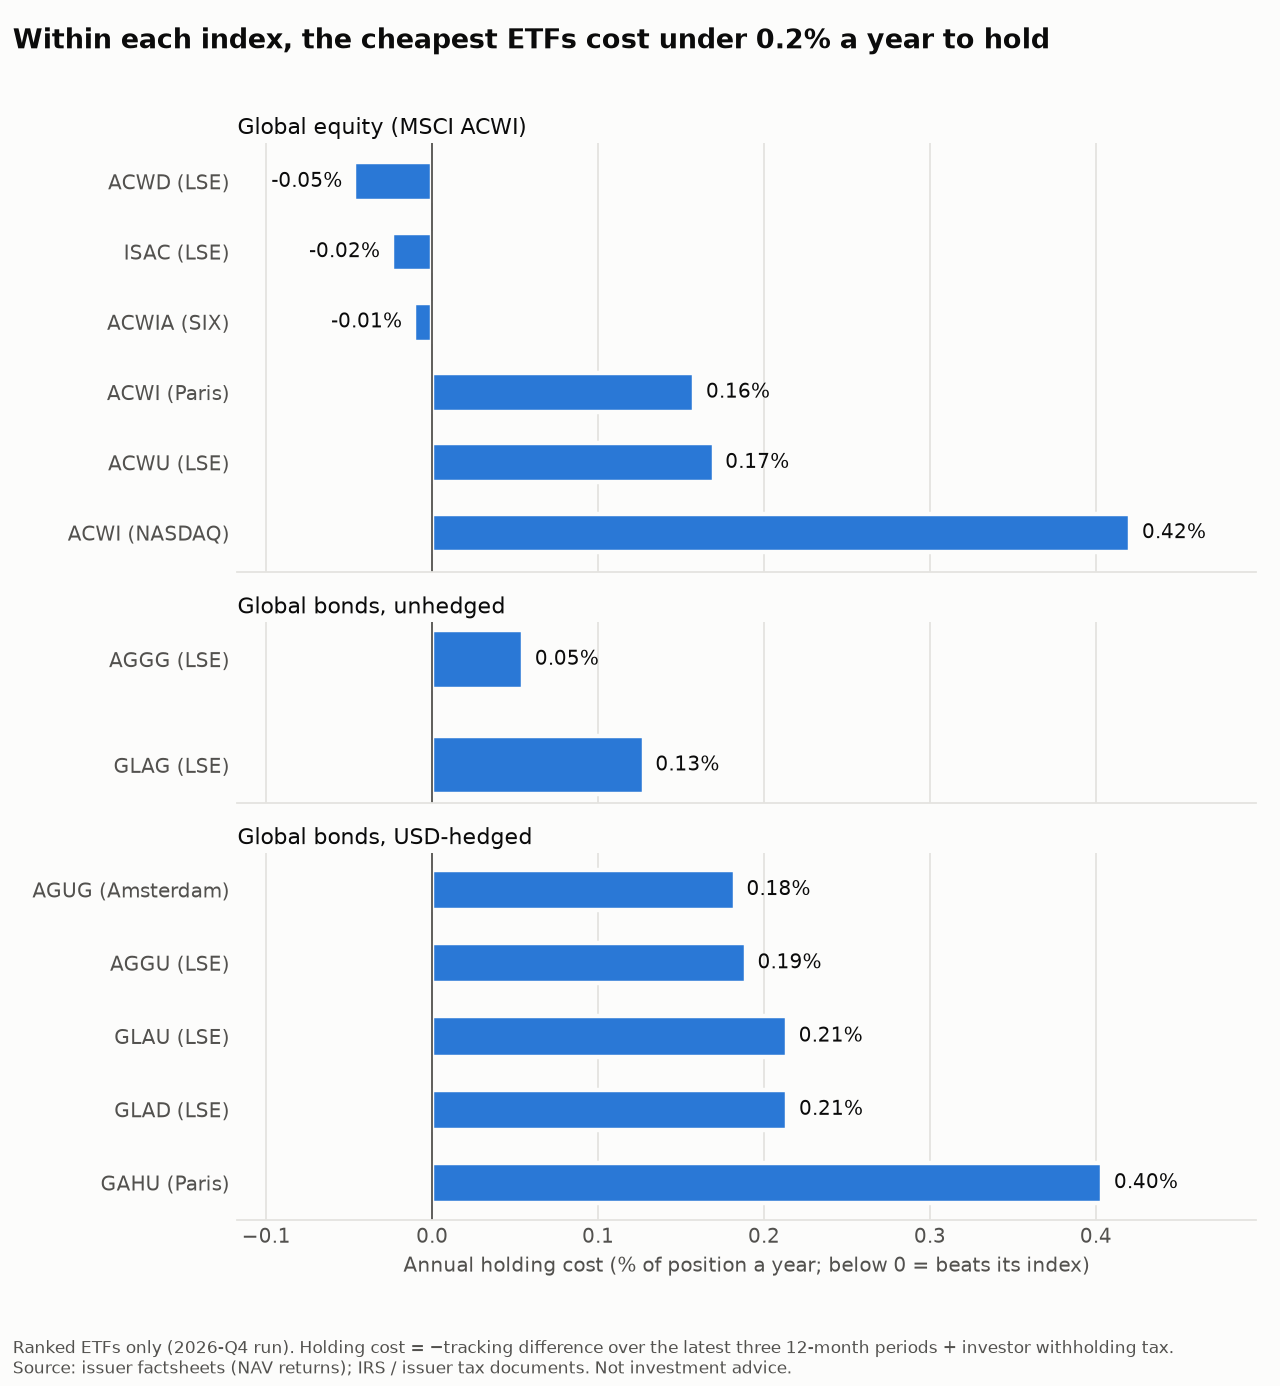
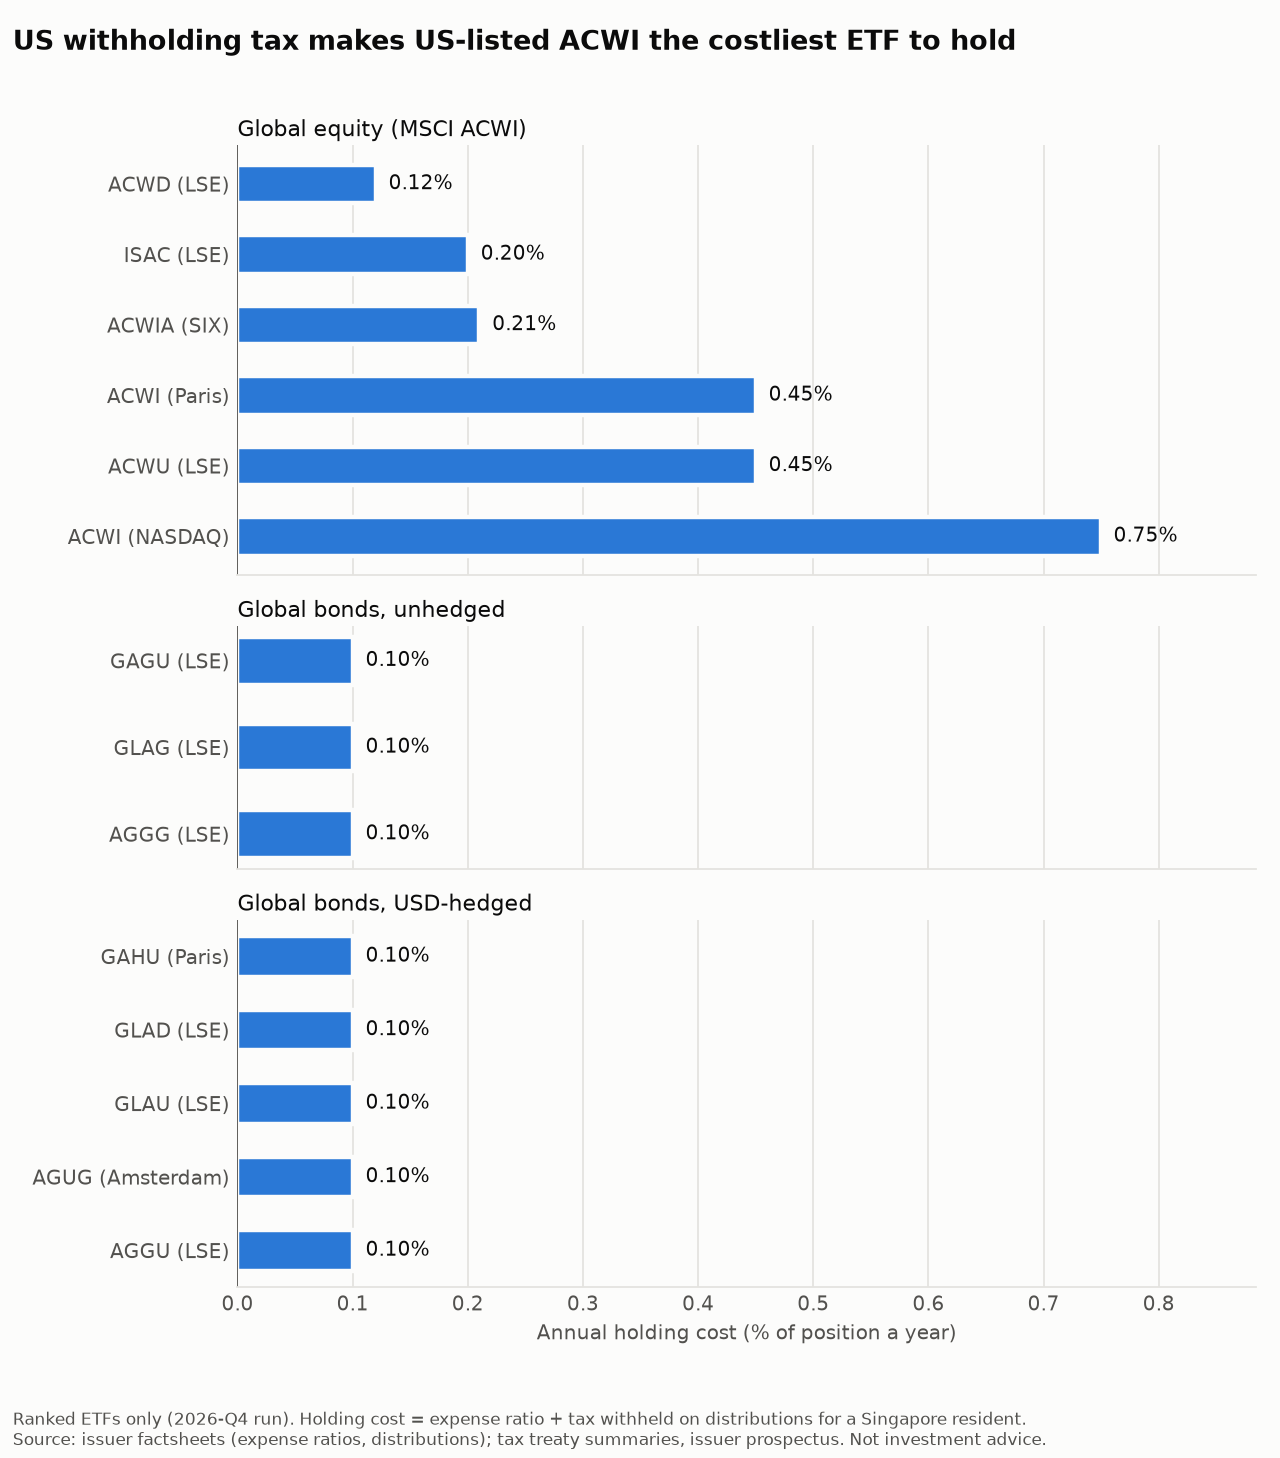
Base holding cost on expense ratio plus tax on distributions
The owner chose fixed, published costs over three years of noisy
tracking difference (R3 revised). Tracking difference is still
reported. Only verified share classes with three years of history can
be ranked or trigger a switch.

diff --git a/tests/test_ranking.py b/tests/test_ranking.py
@@ -49,45 +49,51 @@ def test_periods_after_as_of_are_ignored():
     assert t.set_index("isin").loc["A", "periods"] == 2
 
 
+ISINS = ["H", "C1", "C2", "N", "U"]
+
+
 def _table():
     candidates = pd.DataFrame(
         {
-            "isin": ["H", "C1", "C2", "N"],
-            "ticker": ["HHH", "CC1", "CC2", "NEW"],
-            "benchmark_variant": ["X"] * 4,
-            "distribution": ["acc", "dist", "acc", "acc"],
-            "domicile": ["IE", "US", "IE", "IE"],
+            "isin": ISINS,
+            "ticker": ["HHH", "CC1", "CC2", "NEW", "UNV"],
+            "benchmark_variant": ["X"] * 5,
+            "distribution": ["acc", "dist", "acc", "acc", "acc"],
+            "domicile": ["IE", "US", "IE", "IE", "IE"],
+            "expense_ratio": [0.0020, 0.0010, 0.0015, 0.0005, 0.0001],
+            "status": ["verified"] * 4 + ["to_verify"],
         }
     )
     td = pd.DataFrame(
         {
-            "isin": ["H", "C1", "C2", "N"],
-            "ticker": ["HHH", "CC1", "CC2", "NEW"],
-            "benchmark_variant": ["X"] * 4,
-            "complete": [True, True, True, True],
-            "tracking_difference": [-0.0020, 0.0010, -0.0015, 0.0050],
+            "isin": ISINS,
+            "ticker": ["HHH", "CC1", "CC2", "NEW", "UNV"],
+            "benchmark_variant": ["X"] * 5,
+            "tracking_difference": [-0.0020, 0.0010, -0.0015, 0.0050, 0.0],
         }
     )
     wht = pd.DataFrame({"fund_domicile": ["IE", "US"], "withholding_rate": [0.0, 0.30]})
-    short = pd.Series([False, False, False, True])
+    short = pd.Series([False, False, False, True, False])
     return ranking.cost_table(candidates, td, wht, {"C1": 0.02}, short)
 
 
 def test_cost_table_holding_cost_and_eligibility():
     t = _table().set_index("isin")
-    # US dist beating its index by 0.10%: cost = -0.0010 + 2% yield x 30% = 0.0050
-    assert t.loc["C1", "annual_holding_cost"] == pytest.approx(0.0050)
+    # US dist: 0.10% TER + 2% yield x 30% withholding = 0.70%; tracking difference not used
+    assert t.loc["C1", "annual_holding_cost"] == pytest.approx(0.0070)
     assert t.loc["C2", "annual_holding_cost"] == pytest.approx(0.0015)
     assert t.loc["C1", "us_situs"]
     # Short history can't be ranked or trigger a switch, even though it looks cheapest
     assert not t.loc["N", "eligible"]
     assert pd.isna(t.loc["N", "rank"])
+    # Nor can an unverified row, however cheap its expense ratio
+    assert not t.loc["U", "eligible"]
     assert t.loc["C2", "rank"] == 1
 
 
 def test_switch_decision_picks_cheapest_eligible_and_applies_breakeven():
     t = _table()
-    one_way = {"H": 0.0010, "C1": 0.0010, "C2": 0.0010, "N": 0.0010}
+    one_way = dict.fromkeys(ISINS, 0.0010)
     # H costs 0.20%/yr, C2 0.15%/yr -> saving 5 bps; switch cost 20 bps -> breakeven 4 years
     d = ranking.switch_decision("H", t, one_way, unrecovered=0.0, remaining_years=19.2)
     assert d.best_candidate == "CC2 (C2)"
@@ -99,6 +105,6 @@ def test_switch_decision_picks_cheapest_eligible_and_applies_breakeven():
 
 
 def test_switch_decision_holds_when_already_cheapest():
-    d = ranking.switch_decision("C2", _table(), {i: 0.001 for i in ["H", "C1", "C2", "N"]}, 0.0, 19)
+    d = ranking.switch_decision("C2", _table(), dict.fromkeys(ISINS, 0.001), 0.0, 19)
     assert not d.switch
     assert d.reason.startswith("hold: already")

diff --git a/src/analysis/pipeline.py b/src/analysis/pipeline.py
@@ -187,10 +187,12 @@ def write_public_ranking(
     lines = [
         f"# ETF ranking, {quarter}",
         "",
-        f"Run on {as_of.isoformat()}. Annual holding cost = −tracking difference + investor "
-        "withholding on distributions (rules R3, R4). Tracking difference uses each share "
-        "class's latest three 12-month periods from issuer factsheets (R16). Candidates with "
-        "under 3 years of history or an incomplete window are listed but not ranked (R11).",
+        f"Run on {as_of.isoformat()}. Annual holding cost = expense ratio + tax withheld on "
+        "distributions for a Singapore resident (rules R3, R4); both are fixed, published "
+        "figures. Tracking difference (each share class's latest three 12-month periods from "
+        "issuer factsheets, R16) is shown for information only: three years of it are too "
+        "noisy to separate close funds. Candidates under 3 years old or not yet verified at "
+        "source are listed but not ranked (R11).",
         "",
     ]
     for variant, g in ordered.groupby("benchmark_variant", sort=False):
@@ -200,12 +202,12 @@ def write_public_ranking(
                 "ETF": g["ticker"] + " (" + g["exchange"] + ")",
                 "Domicile": g["domicile"],
                 "Expense ratio": g["expense_ratio"].map(pct),
-                "Tracking difference": g["tracking_difference"].map(pct),
+                "Withholding drag": g["withholding_drag"].map(pct),
+                "Annual holding cost": g["annual_holding_cost"].map(pct),
+                "Tracking difference (info)": g["tracking_difference"].map(pct),
                 "Window end": g["window_end"].map(
                     lambda d: "—" if pd.isna(d) else d.strftime("%Y-%m")
                 ),
-                "Withholding drag": g["withholding_drag"].map(pct),
-                "Annual holding cost": g["annual_holding_cost"].map(pct),
                 "Notes": [
                     ", ".join(
                         n

diff --git a/src/analysis/ranking.py b/src/analysis/ranking.py
@@ -54,9 +54,11 @@ def cost_table(
 ) -> pd.DataFrame:
     """Annual holding cost per candidate, and whether it may trigger a switch (R3, R4, R11).
 
-    annual_holding_cost = -tracking difference + investor withholding on distributions.
-    eligible means a complete tracking-difference window and at least 3 years of history.
-    The rank is within each benchmark variant, cheapest first, among eligible candidates.
+    annual_holding_cost = expense ratio + investor withholding on distributions (R3, revised).
+    Tracking difference is carried along for information only.
+    eligible means at least 3 years of history and a row verified at source, so an unchecked
+    expense ratio can't drive a switch. The rank is within each benchmark variant, cheapest
+    first, among eligible candidates.
     """
     rates = withholding.set_index("fund_domicile")["withholding_rate"]
     t = candidates.merge(td.drop(columns=["ticker", "benchmark_variant"]), on="isin", how="left")
@@ -71,14 +73,12 @@ def cost_table(
         for y, r in zip(t["distribution_yield"], t["withholding_rate"], strict=True)
     ]
     t["annual_holding_cost"] = [
-        costs.annual_holding_cost(td_, w)
-        for td_, w in zip(t["tracking_difference"], t["withholding_drag"], strict=True)
+        costs.annual_holding_cost(er, w)
+        for er, w in zip(t["expense_ratio"], t["withholding_drag"], strict=True)
     ]
     t["us_situs"] = t["domicile"] == "US"
     t["eligible"] = (
-        t["complete"].fillna(False).astype(bool)
-        & ~t["short_history"]
-        & t["annual_holding_cost"].notna()
+        ~t["short_history"] & (t["status"] == "verified") & t["annual_holding_cost"].notna()
     )
     t["rank"] = (
         t[t["eligible"]].groupby("benchmark_variant")["annual_holding_cost"].rank(method="min")

diff --git a/src/analysis/charts.py b/src/analysis/charts.py
@@ -73,14 +73,14 @@ def holding_cost_chart(table: pd.DataFrame, quarter: str, path: Path) -> None:
         ax.set_title(VARIANT_TITLES[variant], loc="left", fontsize=10, color=TEXT, pad=4)
         ax.tick_params(axis="y", labelcolor=TEXT)
         _style(ax)
-    axes[-1].set_xlim(lo - (hi - lo) * 0.15, hi * 1.18)
+    axes[-1].set_xlim(lo - (hi - lo) * 0.15 if lo < 0 else 0, hi * 1.18)
     axes[-1].set_xlabel(
-        "Annual holding cost (% of position a year; below 0 = beats its index)",
+        "Annual holding cost (% of position a year)",
         fontsize=9,
         color=TEXT_SECONDARY,
     )
     fig.suptitle(
-        "Within each index, the cheapest ETFs cost under 0.2% a year to hold",
+        "US withholding tax makes US-listed ACWI the costliest ETF to hold",
         x=0.01,
         ha="left",
         fontsize=12,
@@ -90,9 +90,9 @@ def holding_cost_chart(table: pd.DataFrame, quarter: str, path: Path) -> None:
     fig.text(
         0.01,
         0.005,
-        f"Ranked ETFs only ({quarter} run). Holding cost = −tracking difference over the "
-        "latest three 12-month periods + investor withholding tax.\nSource: issuer "
-        "factsheets (NAV returns); IRS / issuer tax documents. Not investment advice.",
+        f"Ranked ETFs only ({quarter} run). Holding cost = expense ratio + tax withheld on "
+        "distributions for a Singapore resident.\nSource: issuer factsheets (expense ratios, "
+        "distributions); tax treaty summaries, issuer prospectus. Not investment advice.",
         fontsize=7.5,
         color=TEXT_SECONDARY,
         va="bottom",

diff --git a/tests/test_costs.py b/tests/test_costs.py
@@ -15,13 +15,12 @@ def test_investor_withholding_drag_accumulating_is_zero():
 
 
 def test_annual_holding_cost():
-    # Fund lags net index by 0.20% and loses 0.45% to withholding -> 0.65% a year
-    assert costs.annual_holding_cost(-0.0020, 0.0045) == pytest.approx(0.0065)
+    # 0.20% expense ratio + 0.45% withholding drag -> 0.65% a year
+    assert costs.annual_holding_cost(0.0020, 0.0045) == pytest.approx(0.0065)
 
 
-def test_annual_holding_cost_fund_beats_index():
-    # Irish fund beating the net index by 0.10%, accumulating -> negative cost
-    assert costs.annual_holding_cost(0.0010, 0.0) == pytest.approx(-0.0010)
+def test_annual_holding_cost_accumulating_is_just_the_expense_ratio():
+    assert costs.annual_holding_cost(0.0012, 0.0) == pytest.approx(0.0012)
 
 
 def test_percent_commission_minimum_and_cap():

diff --git a/src/analysis/costs.py b/src/analysis/costs.py
@@ -20,9 +20,13 @@ def investor_withholding_drag(distribution_yield: float, withholding_rate: float
     return distribution_yield * withholding_rate
 
 
-def annual_holding_cost(tracking_difference: float, withholding_drag: float) -> float:
-    """Annual cost of holding a fund: lag behind the net index plus investor withholding (R3)."""
-    return -tracking_difference + withholding_drag
+def annual_holding_cost(expense_ratio: float, withholding_drag: float) -> float:
+    """Annual cost of holding a fund: expense ratio plus investor withholding (R3, revised).
+
+    Both are fixed, published figures. Tracking difference is reported separately and does not
+    enter the cost, because three years of it are too noisy to separate close funds.
+    """
+    return expense_ratio + withholding_drag
 
 
 def percent_commission(

diff --git a/reports/2026-Q4/ranking.md b/reports/2026-Q4/ranking.md
@@ -1,45 +1,45 @@
 # ETF ranking, 2026-Q4
 
-Run on 2026-10-25. Annual holding cost = −tracking difference + investor withholding on distributions (rules R3, R4). Tracking difference uses each share class's latest three 12-month periods from issuer factsheets (R16). Candidates with under 3 years of history or an incomplete window are listed but not ranked (R11).
+Run on 2026-10-25. Annual holding cost = expense ratio + tax withheld on distributions for a Singapore resident (rules R3, R4); both are fixed, published figures. Tracking difference (each share class's latest three 12-month periods from issuer factsheets, R16) is shown for information only: three years of it are too noisy to separate close funds. Candidates under 3 years old or not yet verified at source are listed but not ranked (R11).
 
 ## Bloomberg Global Aggregate USD hedged
 
-| Rank | ETF | Domicile | Expense ratio | Tracking difference | Window end | Withholding drag | Annual holding cost | Notes |
+| Rank | ETF | Domicile | Expense ratio | Withholding drag | Annual holding cost | Tracking difference (info) | Window end | Notes |
 |---|---|---|---|---|---|---|---|---|
-| 1 | AGUG (Euronext Amsterdam) | IE | 0.10% | -0.18% | 2025-12 | 0.00% | 0.18% |  |
-| 2 | AGGU (LSE) | IE | 0.10% | -0.19% | 2025-12 | 0.00% | 0.19% |  |
-| 3 | GLAU (LSE) | IE | 0.10% | -0.21% | 2025-12 | 0.00% | 0.21% |  |
-| 4 | GLAD (LSE) | IE | 0.10% | -0.21% | 2025-12 | 0.00% | 0.21% |  |
-| 5 | GAHU (Euronext Paris) | LU | 0.10% | -0.40% | 2025-12 | 0.00% | 0.40% |  |
-| — | HGAD (LSE) | IE | 0.10% | -0.07% | 2026-09 | 0.00% | 0.07% | under 3 years |
+| 1 | AGGU (LSE) | IE | 0.10% | 0.00% | 0.10% | -0.19% | 2025-12 |  |
+| 1 | AGUG (Euronext Amsterdam) | IE | 0.10% | 0.00% | 0.10% | -0.18% | 2025-12 |  |
+| 1 | GLAU (LSE) | IE | 0.10% | 0.00% | 0.10% | -0.21% | 2025-12 |  |
+| 1 | GLAD (LSE) | IE | 0.10% | 0.00% | 0.10% | -0.21% | 2025-12 |  |
+| 1 | GAHU (Euronext Paris) | LU | 0.10% | 0.00% | 0.10% | -0.40% | 2025-12 |  |
+| — | HGAD (LSE) | IE | 0.10% | 0.00% | 0.10% | -0.07% | 2026-09 | under 3 years |
 
 ## Bloomberg Global Aggregate USD unhedged
 
-| Rank | ETF | Domicile | Expense ratio | Tracking difference | Window end | Withholding drag | Annual holding cost | Notes |
+| Rank | ETF | Domicile | Expense ratio | Withholding drag | Annual holding cost | Tracking difference (info) | Window end | Notes |
 |---|---|---|---|---|---|---|---|---|
-| 1 | AGGG (LSE) | IE | 0.10% | -0.05% | 2025-12 | 0.00% | 0.05% |  |
-| 2 | GLAG (LSE) | IE | 0.10% | -0.13% | 2025-12 | 0.00% | 0.13% |  |
-| — | AGAC (Euronext Amsterdam) | IE | 0.10% | -0.04% | 2025-12 | 0.00% | 0.04% | under 3 years |
-| — | GAGU (LSE) | LU | 0.10% | -0.14% | 2025-12 | 0.00% | 0.14% | incomplete window |
-| — | 10AM (XETRA) | LU | 0.10% | TBD | — | 0.00% | TBD | not verified |
+| 1 | AGGG (LSE) | IE | 0.10% | 0.00% | 0.10% | -0.05% | 2025-12 |  |
+| 1 | GLAG (LSE) | IE | 0.10% | 0.00% | 0.10% | -0.13% | 2025-12 |  |
+| 1 | GAGU (LSE) | LU | 0.10% | 0.00% | 0.10% | -0.14% | 2025-12 | incomplete window |
+| — | AGAC (Euronext Amsterdam) | IE | 0.10% | 0.00% | 0.10% | -0.04% | 2025-12 | under 3 years |
+| — | 10AM (XETRA) | LU | 0.10% | 0.00% | 0.10% | TBD | — | not verified |
 
 ## MSCI ACWI Net USD
 
-| Rank | ETF | Domicile | Expense ratio | Tracking difference | Window end | Withholding drag | Annual holding cost | Notes |
+| Rank | ETF | Domicile | Expense ratio | Withholding drag | Annual holding cost | Tracking difference (info) | Window end | Notes |
 |---|---|---|---|---|---|---|---|---|
-| 1 | ACWD (LSE) | IE | 0.12% | 0.05% | 2025-12 | 0.00% | -0.05% |  |
-| 2 | ISAC (LSE) | IE | 0.20% | 0.02% | 2025-12 | 0.00% | -0.02% |  |
-| 3 | ACWIA (SIX) | IE | 0.21% | 0.01% | 2026-09 | 0.00% | -0.01% |  |
-| 4 | ACWI (Euronext Paris) | LU | 0.45% | -0.16% | 2025-12 | 0.00% | 0.16% |  |
-| 5 | ACWU (LSE) | LU | 0.45% | -0.17% | 2025-12 | 0.00% | 0.17% |  |
-| 6 | ACWI (NASDAQ) | US | 0.32% | 0.01% | 2025-12 | 0.43% | 0.42% | US estate tax |
-| — | ACWUKD (SIX) | IE | 0.21% | TBD | — | 0.00% | TBD | not verified |
-| — | SCWX (LSE) | LU | 0.15% | TBD | — | 0.00% | TBD | under 3 years, not verified |
-| — | ACSW (Euronext Amsterdam) | IE | 0.12% | TBD | — | 0.00% | TBD | under 3 years, not verified |
-| — | GPEA (Euronext Paris) | FR | 0.30% | TBD | — | 0.00% | TBD | under 3 years, not verified |
-| — | ALLCE (Euronext Paris) | LU | 0.06% | TBD | — | 0.00% | TBD | under 3 years, not verified |
-| — | ALLC (SIX) | LU | 0.06% | TBD | — | 0.00% | TBD | under 3 years, not verified |
-| — | ISDA (Euronext Amsterdam) | IE | 0.20% | TBD | — | 0.00% | TBD | under 3 years, not verified |
+| 1 | ACWD (LSE) | IE | 0.12% | 0.00% | 0.12% | 0.05% | 2025-12 |  |
+| 2 | ISAC (LSE) | IE | 0.20% | 0.00% | 0.20% | 0.02% | 2025-12 |  |
+| 3 | ACWIA (SIX) | IE | 0.21% | 0.00% | 0.21% | 0.01% | 2026-09 |  |
+| 4 | ACWU (LSE) | LU | 0.45% | 0.00% | 0.45% | -0.17% | 2025-12 |  |
+| 4 | ACWI (Euronext Paris) | LU | 0.45% | 0.00% | 0.45% | -0.16% | 2025-12 |  |
+| 6 | ACWI (NASDAQ) | US | 0.32% | 0.43% | 0.75% | 0.01% | 2025-12 | US estate tax |
+| — | ALLCE (Euronext Paris) | LU | 0.06% | 0.00% | 0.06% | TBD | — | under 3 years, not verified |
+| — | ALLC (SIX) | LU | 0.06% | 0.00% | 0.06% | TBD | — | under 3 years, not verified |
+| — | ACSW (Euronext Amsterdam) | IE | 0.12% | 0.00% | 0.12% | TBD | — | under 3 years, not verified |
+| — | SCWX (LSE) | LU | 0.15% | 0.00% | 0.15% | TBD | — | under 3 years, not verified |
+| — | ISDA (Euronext Amsterdam) | IE | 0.20% | 0.00% | 0.20% | TBD | — | under 3 years, not verified |
+| — | ACWUKD (SIX) | IE | 0.21% | 0.00% | 0.21% | TBD | — | not verified |
+| — | GPEA (Euronext Paris) | FR | 0.30% | 0.00% | 0.30% | TBD | — | under 3 years, not verified |
 
 ## Near-equivalents (separate comparison, not ranked; R17)
 

diff --git a/docs/decisions.md b/docs/decisions.md
@@ -199,3 +199,15 @@ One entry per rule. **Status** is one of: *Supported* (evidence backs the rule a
 **Context:** First full pipeline run (2026-Q4). Under R6 as written, the tool says to switch ISAC → ACWD: annual saving 0.023% against a 0.20% switch cost, breakeven 8.8 years, with 19.2 years left.
 **Evidence (R2 test, calendar years 2023–2025):** ACWD minus ISAC tracking difference by year: −0.34, +0.01, +0.40 percentage points. Mean +0.023, standard deviation 0.37, standard error 0.21, so the mean is 0.11 standard errors from zero. The ranking between the two is not reliable at 3 years. For comparison, GLAG minus AGGG: −0.16, −0.03, −0.03 (mean −0.073, 1.7 standard errors).
 **Status:** Owner decision needed. Should R6 require the saving to be statistically distinguishable from zero before a switch? See the brief's Open questions.
+
+### 2026-10-25 — R3 revised: holding cost = expense ratio + tax on distributions
+**Status:** Decided by owner 2026-10-25 (option 1 of three offered). Supersedes R3's tracking-difference-based cost.
+**Context:** The R2 reliability check showed that three years of tracking difference can't separate close funds (ACWD vs ISAC: mean gap +0.023%, standard error 0.21%). Three options were offered: (1) TER + tax only, (2) tracking difference with a 2-standard-error test, (3) TER + tax by default, switching to tracking difference when it is statistically clear.
+**Rule:**
+- Annual holding cost = expense ratio + investor withholding on distributions (R4). Both are fixed, published figures.
+- The switch rule's saving S (R6) is the difference in this cost.
+- Tracking difference (R16) is still computed and reported for information; it does not enter the cost, the ranking or the switch.
+- A candidate can be ranked or trigger a switch only if it has at least 3 years of history (R11) and its row is verified against an issuer document (R13), so an unchecked expense ratio can't drive a trade.
+**Evidence:** Morningstar treats the expense ratio as the most predictable component of tracking difference ([Morningstar](https://morningstar.co.uk/uk/news/66096/the-total-cost-of-etf-ownership.aspx)). The R2 test above shows the rest of tracking difference is dominated by year-to-year noise at a 3-year horizon.
+**Known omission:** Costs or gains that show up only in tracking difference aren't counted: withholding inside the fund (e.g. 15% on US dividends in an Irish fund, against 30% assumed by the net index), securities-lending income, swap costs and sampling error. Two funds with equal TERs therefore tie, as all 0.10% Global Aggregate funds do.
+**Effect (2026-Q4):** ISAC → ACWD: S = 0.08%/yr (0.20% vs 0.12%), switch cost 0.20%, breakeven 2.5 years against 19.2 left: switch. AGGG: every eligible unhedged fund costs 0.10%: hold.

diff --git a/docs/brief.md b/docs/brief.md
@@ -48,8 +48,8 @@ One source per line, with whether results derived from it can be published.
 ## 9. Processing steps
 1. Build the candidate list: ETFs tracking each benchmark, with domicile, listing, share class and hedging. Maintained by hand in `reference/candidates.csv`, with sources and dates (R13).
 2. Download daily total-return prices, dividends and USD/SGD FX.
-3. Calculate each candidate's costs (R3): tracking difference against the benchmark's net total return variant over 1, 3 and 5 years (this already includes the expense ratio and fund-level withholding), investor-level withholding on distributions, and trading costs (bid-ask spread, commission, FX conversion). The expense ratio is shown for information only.
-4. Total cost of ownership = −tracking difference + investor-level withholding + annualised trading costs, in USD. Convert to SGD and break out the FX impact.
+3. Calculate each candidate's costs (R3, revised 2026-10-25): expense ratio, investor-level withholding on distributions, and trading costs (bid-ask spread, commission, FX conversion). Tracking difference over the latest three 12-month periods is reported for information only.
+4. Annual holding cost = expense ratio + investor-level withholding, in USD; trading costs enter the switch decision. Convert to SGD and break out the FX impact.
 5. Rank candidates within each sleeve and flag US estate-tax exposure.
 6. Compare against current holdings and apply the breakeven switch rule (R6/R7), using the switch log for unrecovered costs. Each candidate is marked "switch" or "hold", with the breakeven years and the reason. ETFs with less than 3 years of history cannot trigger a switch (R11).
 7. Write the outputs: ranking table, charts, and a quarterly summary.
@@ -83,7 +83,6 @@ Not applicable (Tool).
 ## 15. Open questions
 - **Candidate data gaps** (run `analysis.reference.coverage_gaps` for the current list): most rows still `to_verify`.
 - **Current holdings and switch log:** where the tool reads current holdings and the switch log (date, cost `C` and expected saving `S` of each past switch) from. Default: manual files in `data/external/` (not committed, R13).
-- **Switch reliability (R2/R6):** the first run says to switch ISAC → ACWD on a 0.023%/yr saving that is 0.11 standard errors from zero. Add a significance condition to the switch rule?
 - **Evidence review (2026-10-25, rules R1–R12 in `docs/decisions.md`).**
   - Supported: R1 USD base, R2 3-year window (as convention), R4 withholding rates, R5 estate-tax flag, R10 spread estimator, R12 hedged/unhedged separation.
   - Decided by owner 2026-10-25: R3 cost formula, R6/R7 breakeven switch rule with a 20-year horizon and unrecovered costs, R9 no risk-free rate, R11 short-history ETFs cannot trigger a switch.
